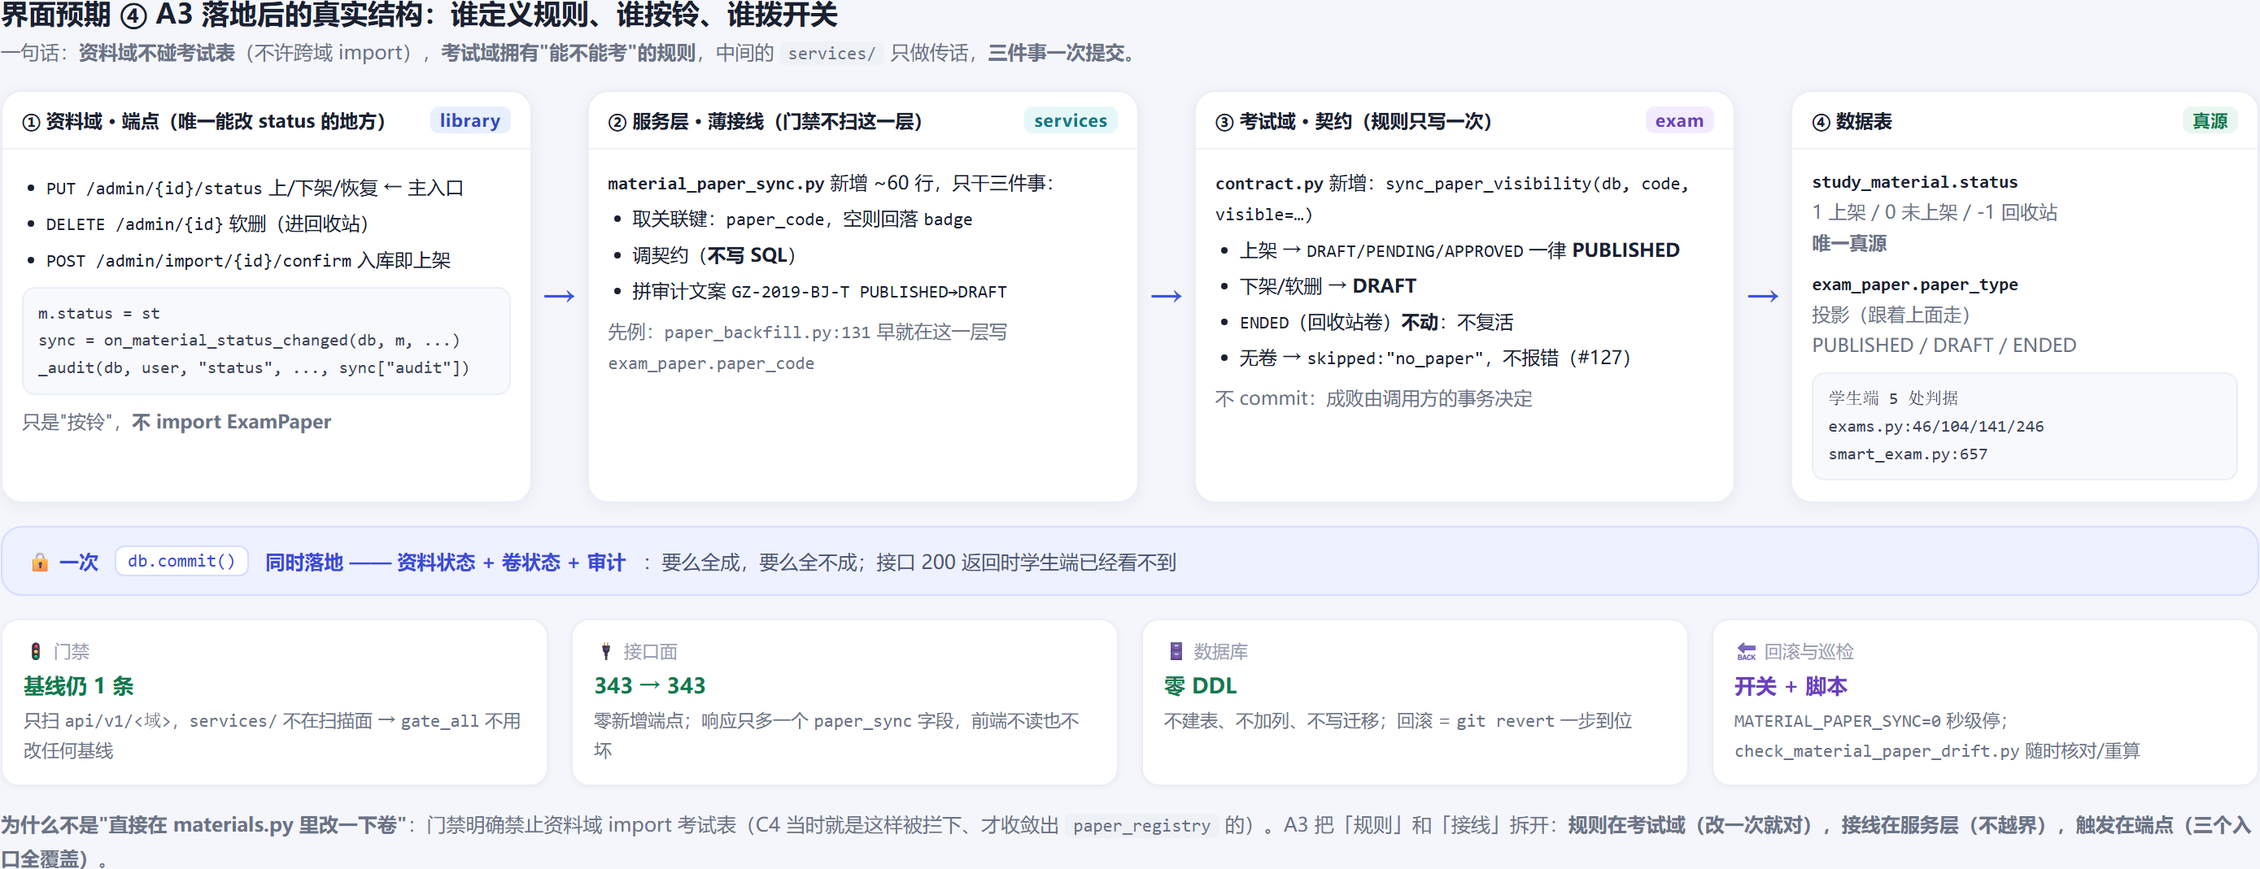
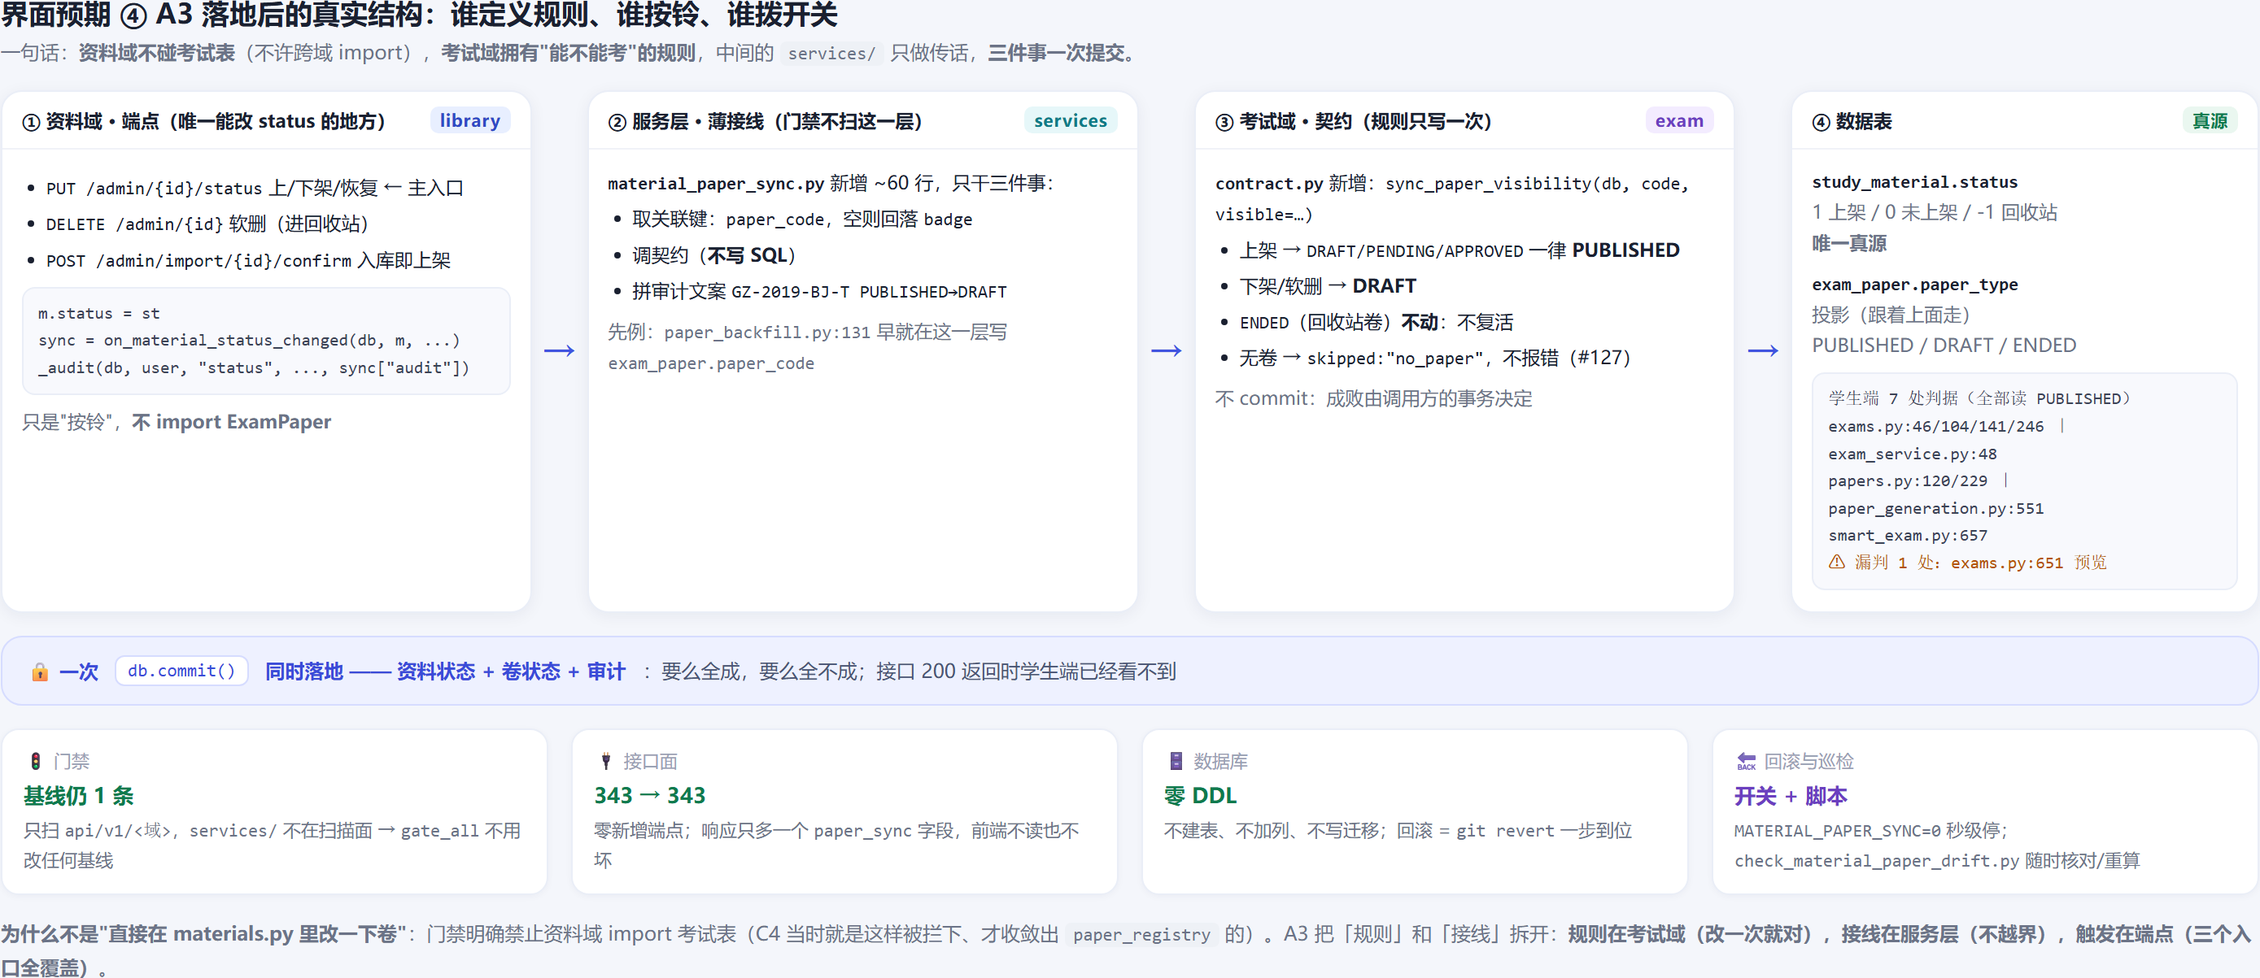
docs: 试卷上传→学生开考现状链路实测 + 订正 P5 判据点数量并记 R8 预览漏判
- 新增《试卷上传到学生开考_现状链路_v1.md》：上传≠可考，7 步全景 + 3 断点 + 实测证据
- P5 文档：学生侧判据 5 处 → 7 处（补上学生页真实主路径 /api/exams/start、/api/papers/list）
- 新增 R8：GET /api/exams/preview/{id} 不过滤 paper_type（实测 ENDED 卷返回 200）+ D8 处置选项 + T13
- 重绘 04 图（判据点数量与漏判标注）；README 索引两行同步

diff --git a/docs/README.md b/docs/README.md
@@ -908,7 +908,8 @@ docker compose cp backend:/app/data/backups/<备份文件>.db .\backup_from_dock
 | `plans/B1_人工验收清单_v1.md` | v1 | 📋 验收指引（2026-11-07） | B1 的 5 分钟验收剧本：0 节说明"只有 ID 121 带原件"（其余 112 条是 B1 前的数据，源文件已清）；1 节三步快速版（`?type=lecture` → 预览 → 底部「原件（1）」→ 下载 35 KB docx）；2 节完整性 5 项（文件大小/磁盘哈希/其它类型不受影响/统计不变/软删后管理员仍可下）；3 节列出 4 项"看不到是正常"；4 节给 PowerShell 核对命令（`Test-Path`/`Length`/`Get-FileHash`/`git check-ignore`）；5 节可选"从零跑一遍真实导入"；6 节回执格式 |
 | `plans/B2_批量上传与双格式配对_交付记录_v1.md` | v1 | ✅ 已完成（2026-11-07，B 批第 3 项 / B 批收尾） | 一次最多 50 文件、合计 ≤2GB；**同名 docx+pdf 合并一条**（docx 主文件 / pdf 附件）；逐条队列带进度、重复跳过、失败原因。**检查点**：①端点一次一个文件（`material_id` 区分建资料/挂附件）；②同 `sha256` 返回 `duplicate=true` 不建行；③扩展名+magic+20MB；④编排纯函数（16 例）+ 组件（5 例）；⑤完成后自动刷新统计。**实测**：对话框 `将创建 1 条资料（含 1 组双格式）` → 队列上传中 → ID 122、两行原件、附件 70B 可下载、重复上传 total 仍 114。**跑门禁须带 `OPENAPI_URL`（8000 被 Docker 容器占用，否则 L4 假红 7 个端点）** |
 | `plans/B2_批量导入测试数据_清单_v1.md` | v1 | 📋 测试数据（2026-11-07） | `assets/测试上传数据/B2批量导入/` 下 **16 个文件**：①`01_正常用例/` 4 组同名 docx+pdf（2 套题本 + 2 章讲义）+ 3 单文件，分 3 批导 → 创建 **7 条**（114→121，试卷 3、文章·讲义 3/6）；②`02_重复用例/04_讲义_正常.docx` 与 121 字节相同 → 标「重复」不新增；③`03_同名冲突/A|B/同名资料.docx` 同名不同内容 → 两条独立资料；④`04_异常用例/` txt 前端拦、假 docx 后端 400。含三套剧本、统计对账表、5 条"别把正常当异常"、清理办法。所有 docx/pdfs 已校验可正常打开（假 docx 除外，故意损坏） |
-| `plans/P5_上下架联动_方案对比_v1.md` | v1 | 📋 **待你拍板 D1–D7**（未改代码） | 回答「P5 上下架联动 `exam_paper.paper_type` 怎么做」，给 **6 套方案**对比（含影响面/回滚/测试点）：**A3 契约+服务层接线（推荐）**：考试域新增 `exam/contract.py` 拥有可作答性状态机 + `services/material_paper_sync.py` 薄接线 + `materials.py` 3 处调用（status / 软删 / 入库即上架），同事务强一致、**门禁基线仍 1 条、API 面仍 343、零 DDL**、0.75 人日；A1 服务层直写 0.5d（职责混）；A2 契约+基线登记 1.0d（**基线 1→2 需你批准**，换"跨域在扫描里可见"）；B 事件驱动 2.0d（最终一致 + 双路径，建议留给事件总线阶段）；C 改学生侧判据（**否决**，与 §2.3 冲突且 5 处重复判据）；D 只巡检（不达验收，降为回滚资产）。**实测事实**：学生侧 5 处 `PUBLISHED` 判据（`exams.py:46/104/141/246` + `smart_exam.py:657`）、能写 PUBLISHED 的 4 扇门、状态真源 `study_material.status`（-1:5 / 0:14 / 1:105）、3 套试卷资料 #125/#126 有卷·#127 `GZ-2024-GK-T` 无卷；门禁只扫 `api/v1` 且 `--check-only` 不自动写基线，`catalog/contract.py` 是先例，`paper_backfill.py:131` 已开"services 写 exam_paper"先例。**语义待定 D-P5-1~6**：PENDING/APPROVED 上架即 PUBLISHED、ENDED 不复活、软删联动、入库即上架联动、无卷 no-op。**回滚三层**：`MATERIAL_PAPER_SYNC` 开关 / `git revert`（无 DDL）/ `sqlite3.backup()` 快照 + 审计 detail + 漂移重算脚本。**风险 R1 反向漂移仍在**（教师端 4 处发布入口），需 P0–P4 根除。**§0.5 通俗版**（打比方 + 六条优势 + 分角色预期效果）+ **4 张界面预期图** `assets/P5联动预期/`（管理端下架前后对照 / 可作答卷三态 / 学生端下架即消失 / A3 责任边界数据流） |
+| `plans/试卷上传到学生开考_现状链路_v1.md` | v1 | ✅ 现状实测说明（2026-11-08，只读探针，未改代码） | 回答「现在上传试卷后，学生端考试的机制是什么样的」。**结论：上传 ≠ 可考** —— 上传只落 `study_material(status=0)` + `material_file(primary)` + `paper_code`（C2a 解析），`materials.py` 全文对 `ExamPaper` **只有只读桥**，**零建卷能力**。学生端入场券 = `exam_paper.paper_type='PUBLISHED'`。**7 步全景**：上传 → 上架（只改 status）→ 另建卷（6 条链路/8 处 `ExamPaper(`）→ 配题（`paper_question_relation`，空则 404「该试卷暂无题目」）→ 学生列表（主路径 `GET /api/papers/list`，`role_level<2` 仅 PUBLISHED）→ 开考（主路径 `POST /api/exams/start` → `ExamService.start_exam:46`）→ 进度/交卷/成绩（历史成绩不按 `paper_type` 过滤，下架不丢分）。**3 个断点**：A 上传→卷无自动通道（#127 实证）、B 上架→可考不联动（P5）、C 卷→资料仅反方向可用（补录）。**新发现 R8**：`GET /api/exams/preview/{id}`（`exams.py:651`→`exam_service.py:464`）**漏判 `paper_type`**，学生 token 请求 `ENDED` 的 #1 实测 **200**（对照 `papers.py:229` 同功能接口有守卫）→ 草稿卷配题后题干/选项可被学生直读（不含答案解析）。**实测证据**：学生 `/api/papers/list` 与 `/api/exams/list` 同返回 2 条（#2/#3），`#127 GZ-2024-GK-T` 不在其中；`/api/exams/1`、`/1/questions`=404、`/start`=400。探针 `_run/p5_exam_probe*.py` |
+| `plans/P5_上下架联动_方案对比_v1.md` | v1 | 📋 **待你拍板 D1–D8**（未改代码） | 回答「P5 上下架联动 `exam_paper.paper_type` 怎么做」，给 **6 套方案**对比（含影响面/回滚/测试点）：**A3 契约+服务层接线（推荐）**：考试域新增 `exam/contract.py` 拥有可作答性状态机 + `services/material_paper_sync.py` 薄接线 + `materials.py` 3 处调用（status / 软删 / 入库即上架），同事务强一致、**门禁基线仍 1 条、API 面仍 343、零 DDL**、0.75 人日；A1 服务层直写 0.5d（职责混）；A2 契约+基线登记 1.0d（**基线 1→2 需你批准**，换"跨域在扫描里可见"）；B 事件驱动 2.0d（最终一致 + 双路径，建议留给事件总线阶段）；C 改学生侧判据（**否决**，与 §2.3 冲突且 5 处重复判据）；D 只巡检（不达验收，降为回滚资产）。**实测事实**：学生侧 **7 处** `PUBLISHED` 判据（`exams.py:46/104/141/246` + 主路径 `exam_service.py:48` `/api/exams/start` + `paper_generation.py:551` `/api/papers/list` + `papers.py:120/229` + `smart_exam.py:657`；另有 1 处漏判 `exams.py:651` 预览，见 R8/D8）、能写 PUBLISHED 的 4 扇门、状态真源 `study_material.status`（-1:5 / 0:14 / 1:105）、3 套试卷资料 #125/#126 有卷·#127 `GZ-2024-GK-T` 无卷；门禁只扫 `api/v1` 且 `--check-only` 不自动写基线，`catalog/contract.py` 是先例，`paper_backfill.py:131` 已开"services 写 exam_paper"先例。**语义待定 D-P5-1~6**：PENDING/APPROVED 上架即 PUBLISHED、ENDED 不复活、软删联动、入库即上架联动、无卷 no-op。**回滚三层**：`MATERIAL_PAPER_SYNC` 开关 / `git revert`（无 DDL）/ `sqlite3.backup()` 快照 + 审计 detail + 漂移重算脚本。**风险 R1 反向漂移仍在**（教师端 4 处发布入口），需 P0–P4 根除；**R8 预览漏判**实物证据（ENDED 卷预览 200）与 **D8** 处置选项。**§0.5 通俗版**（打比方 + 六条优势 + 分角色预期效果）+ **4 张界面预期图** `assets/P5联动预期/`（管理端下架前后对照 / 可作答卷三态 / 学生端下架即消失 / A3 责任边界数据流） |
 | `plans/C3_试卷筛选_交付记录_v1.md` | v1 | ✅ 已完成（2026-11-08，C 批第 4 段） | 「类型=试卷」时出现**年份/地区/卷别**三个下拉 + 深链。**检查点**：①后端 `paper_year`(1900–2100)/`region`(代码或中文)/`book_kind`(T,A,J)；②订正优先于解析；③带试卷筛选排除非试卷；④组合筛选与 status 共存；⑤筛选后分页正确；⑥不带筛选时行为不变；⑦行回传 paper_year/region/book_kind。**实测** 2019→125、2017→126、BJ→125、江苏→126、2019+BJ→1、2020→0。pytest 11 新增/74 回归、vitest 619、gate 9/10 |
 | `plans/C1_讲义大纲与删原件_交付记录_v1.md` | v1 | ✅ 已完成（2026-11-08，C 批第 3 段） | 讲义能看规模与目录，原件能单独删。**检查点**：①docx 大纲抽取（Heading 优先 / 编号兜底 / 无标题只给字数 / 坏文件不炸）17 例；②`doc_meta` 列 + 启动期自动补列 + 回填脚本（5 条已回填）；③上传与导入落档后自动抽；④列表 `chapter_count/word_count`、预览 `chapters`+`doc`；⑤抽屉两级目录 + 字数；⑥删原件端点（内容寻址：有他资料引用则保留物理文件）+ 二次确认 UI。**实测** 121=3 章 120 字、删临时 pdf 后磁盘文件消失、剩余原件 0。pytest 17 新增/138 回归、vitest 610、gate 9/10 |
 | `plans/C批验收反馈修复记录_v1.md` | v1 | ✅ 已完成（2026-11-08） | 验收反馈的 2 个缺陷：①**C2a 未接到上传路径**（编号只在补录/改信息时生成）→ 上传建资料时按文件名解析并写 `paper_code`/`badge`，127 补成 `GZ-2024-GK-T`；②**错误文案被吞**（`apiClient` rejection 是普通对象，非 Error）→ 新增 `errorMessage()` 并替换 9 处，真机确认显示「year 需在 1990–2100 之间，收到 1800」。含数据现状（125 挂了验收用的模拟卷 PDF、可清理清单）。pytest 121、vitest 605、gate 9/10 |

diff --git a/docs/plans/试卷上传到学生开考_现状链路_v1.md b/docs/plans/试卷上传到学生开考_现状链路_v1.md
@@ -1,0 +1,146 @@
+# 试卷从「上传」到「学生开考」——现状链路实测（v1）
+
+> **状态**：📋 现状说明（只读实测，**未改任何代码/数据**）
+> **分支**：`feat/material-multi-format-import` ｜ 实测后端：`http://127.0.0.1:8001`（`revision e425451`）
+> **实测时间**：2026-11-08 ｜ 探针脚本：`_run/p5_exam_probe.py`、`_run/p5_exam_probe2.py`（只发 GET/POST 读请求）
+> **一句话结论**：**上传试卷 ≠ 学生能考**。上传只往「资料库」落一条资料 + 原件 + 编号，**不建可作答卷**；学生端考试的入场券是 `exam_paper.paper_type='PUBLISHED'`，而它与 `study_material.status` **目前没有任何联动**。
+
+---
+
+## 1. 一句话结论的证据（4 条实测）
+
+| # | 证据 | 说明 |
+|---|---|---|
+| 1 | `backend/app/api/v1/library/materials.py` 全文对 `ExamPaper` **只有一处注释级 import**（L805 的 `paper_registry` 只读桥） | 资料库的代码**根本没有建卷能力** |
+| 2 | `#127`「2024国考·公专题本」已是 `status=1`、`paper_code=GZ-2024-GK-T`，但学生 `GET /api/papers/list` 只拿到 **2 条**（#3 江苏、#2 北京），**没有 2024 卷** | 上传的资料**不会**出现在学生考试列表里 |
+| 3 | 学生端「历年试卷」真实调用链是 `student_papers.vue` → `papersStore.load()` → **`GET /api/papers/list`**（`paper_generation.py:525`）；`role_level<2` 只返回 `PUBLISHED` | 学生看到的卷**只来自 `exam_paper`** |
+| 4 | 学生 `POST /api/exams/start?paper_id=1`（#1 是 `ENDED`）→ **400「试卷不存在或未发布」**；`GET /api/exams/1` → 404；`GET /api/exams/1/questions` → 404 | 三道门都按 `PUBLISHED` 拦 |
+
+---
+
+## 2. 现状机制全景（分 7 步，标出「谁在起作用」）
+
+```
+管理端上传试卷 ──▶ 资料库(study_material + material_file)  ← 学生端完全不读这里
+                        │
+                        └─ paper_code（如 GZ-2024-GK-T）
+                                  ↕ 仅"编号相等"，没有外键、没有联动
+题库里另建一张卷 ──▶ exam_paper(DRAFT) ──发布/审批──▶ PUBLISHED ──▶ 学生端列表/开考
+                        └─ paper_question_relation（题、顺序、分值）
+```
+
+### 步骤 1：上传（管理端）
+
+- 端点：`POST /api/materials/admin/files/upload`（`materials.py:1887` 起）
+- 落库：`study_material(type='paper', status=0)` + `material_file(role='primary')`
+- 顺带：C2a 从文件名解析编号 → 写 `badge` / `paper_code`（例：`GZ-2024-GK-T`）；讲义才抽 `doc_meta` 大纲
+- **不落**：`exam_paper`、`paper_question_relation`、`question_bank`
+- 结论：**这一步结束，学生端毫无变化**
+
+### 步骤 2：上架（管理端，=审批通过）
+
+- 端点：`PUT /api/materials/admin/{id}/status {status:1}`（`materials.py:2035`）
+- 落库：`study_material.status = 1`
+- **不落**：`exam_paper.paper_type`（**这就是 P5 缺口**）
+- 结论：**上架只影响「资料库可见性」，不影响「能不能考」**
+
+### 步骤 3：要变成"可考卷"，必须另有一条 `exam_paper`（6 条建卷链路，8 处 `ExamPaper(`）
+
+| 链路 | 位置 | 建出来是什么态 | 谁能发布 |
+|---|---|---|---|
+| 教师端建卷 | `platform/teacher.py:776`、`:1243` | `DRAFT` | 教师直接发布（`teacher.py:1383`，仅 `past_paper`） |
+| 管理员建卷 | `catalog/papers.py:88` | `DRAFT` | 提交审批 → `PENDING` → `admin_approval.py:245` 审批通过 = `PUBLISHED`；或 `papers.py:402` `APPROVED` → `papers.py:442` 发布 |
+| AI 组卷 | `catalog/paper_generation.py:186`、`:354`、`:464` | `DRAFT` | `paper_generation.py:748` |
+| **题目导入** | `catalog/question_import.py:3680` | `DRAFT`（题量 ≥5 自动建；同名复用；`ENDED` 复活为 `DRAFT`） | 仍需走上面的发布路径 |
+| 标签组卷 | `catalog/tags.py:227` | `DRAFT` | 同上 |
+| 小智私卷 | `exam/smart_exam.py:320` | 私有 `DRAFT`（学生看不到别人的） | 不发布 |
+
+> **关键**：**没有一条链路是"从资料生成卷"**。唯一的桥是反方向的补录 `POST /api/materials/admin/papers/backfill`（`services/paper_backfill.py`）——它把**已发布的卷**补录成资料，并**故意置 `status=1`**，避免"学生能考但资料显示未上架"的矛盾。
+
+### 步骤 4：卷还得真的有题
+
+- `paper_question_relation`（`paper_id` + `question_id` + `question_order` + `question_score`）
+- `GET /api/exams/{id}/questions`：关联为空 → **404「该试卷暂无题目」**（`exams.py:152-153`）
+- 列表上的 `question_count` 是卷表上的冗余字段，**不一定等于真实关联题数**（建卷后再加/删题会不同步）
+
+### 步骤 5：学生端列表（两条接口，主路径是 `/api/papers/list`）
+
+| 接口 | 位置 | 学生可见条件 |
+|---|---|---|
+| **`GET /api/papers/list`**（`student_papers.vue` 在用） | `paper_generation.py:525` | `role_level<2` → 仅 `PUBLISHED`；教师看自己的 + 已发布；管理员全量 |
+| `GET /api/exams/list`（旧接口，移动端/其它页可能用） | `exams.py:32` | 恒 `PUBLISHED` |
+
+### 步骤 6：学生开考（两条开考接口，主路径是 `POST /api/exams/start`）
+
+| 接口 | 位置 | 过滤 | 行为 |
+|---|---|---|---|
+| **`POST /api/exams/start?paper_id=&exam_type=SELF_TEST`**（学生页在用） | `exams.py:595` → `ExamService.start_exam`（`exam_service.py:46`） | `PUBLISHED` | 有未完成记录 → **续考**；否则建 `exam_record`（`exam_type='SELF_TEST'`）并返回题目（**不含答案**） |
+| `POST /api/exams/{paper_id}/start` | `exams.py:230` | `PUBLISHED` | 同上（老版本，另有 `max_attempts` 次数校验） |
+
+### 步骤 7：答题 → 交卷 → 成绩
+
+```
+开始考试(返回题目,不含答案) → /paper-answer 答题
+   → PUT /api/exams/{exam_id}/progress   存进度（断点续答）
+   → POST /api/exams/{exam_id}/submit    自动评分（客观题自动、主观题待批改）
+   → GET  /api/exams/records             我的记录 / 成绩
+   → 完成事件（成就·金币判据之一）
+```
+
+- 提交接口还有老版本 `POST /api/exams/{record_id}/submit`（`exams.py:302`），两套并存
+- 历史记录、成绩、错题**不按 `paper_type` 过滤** → 卷下架**不影响**已有成绩（实测确认）
+
+---
+
+## 3. 三个断点（"上传了为什么学生看不到"的准确答案）
+
+| # | 断点 | 表现 | 归属 |
+|---|---|---|---|
+| **A** | **上传 → 卷**：没有任何自动通道 | 上传 #127 后学生端永远看不到（实测 `/api/papers/list` total=2） | P2 题目线（题目导入自动建卷）/ 教师建卷 |
+| **B** | **上架 → 可考**：不联动 `paper_type` | 下架 #125，学生照样能考 #2（因为它还是 `PUBLISHED`） | **P5**（本文档同目录的《P5_上下架联动_方案对比_v1.md》） |
+| **C** | **卷 → 资料**：只有反方向可用 | 3 条试卷资料 = 2 条补录（#125/#126）+ 1 条上传（#127，无卷） | 已结（C4 补录） |
+
+---
+
+## 4. 顺带发现的一个真缺陷（已实测）
+
+**`GET /api/exams/preview/{paper_id}` 漏判 `paper_type`**
+
+- 路由：`exams.py:651` → `ExamService.get_exam_preview`（`exam_service.py:460-464`）
+- 代码：`paper = db.query(ExamPaper).filter(ExamPaper.paper_id == paper_id).first()` —— **没有 `paper_type` 条件**
+- 实测（学生 token）：
+  - `GET /api/exams/preview/1`（#1 = `ENDED` 回收站）→ **HTTP 200**，`{"paper_name":"1"}`，`questions=0`（这张卷恰好没题）
+  - `GET /api/exams/preview/2`（`PUBLISHED`）→ 200，`questions=100`，字段含 `question_content`/`options`，**不含** `answer`/`answer_analysis`
+- 风险：任何「草稿/回收站**但已配题**」的卷，学生可直接读到**题干与选项**（不泄露答案与解析，但仍属未发布内容外泄）
+- 对照：另一个同名预览口 `GET /api/papers/{id}/preview`（`catalog/papers.py:229`）**是有守卫的**（`role_level<2` 且非 `PUBLISHED` → 404）
+- 建议：二选一 —— ①并入 P5（+0.1d，同步加 T13 测试）；②单开小补丁立刻堵。**等你点头**
+
+---
+
+## 5. 现状数据快照（可复核）
+
+| 项 | 值 |
+|---|---|
+| `exam_paper` | 3 行：#1 `P-20261026-D65ED5` **ENDED**（0 题）、#2 `GZ-2019-BJ-T` **PUBLISHED**（100 题/100 分/120 分钟）、#3 `GZ-2017-JS-T` **PUBLISHED**（100 题） |
+| 学生端可见卷 | **2 套**（#2、#3）—— `GET /api/papers/list` 与 `GET /api/exams/list` 实测同为 2 |
+| 试卷类资料 | 3 条，全 `status=1`：#125↔#2、#126↔#3、**#127 无对应卷** |
+| 资料状态分布 | `-1` 5 条 / `0` 14 条 / `1` 105 条 |
+
+复核命令：
+
+```powershell
+cd li_an-question_bank\backend
+python -c "import sqlite3;c=sqlite3.connect(r'data/question_bank.db');print(list(c.execute('select paper_id,paper_code,paper_type,question_count from exam_paper')))"
+python _run\p5_exam_probe.py   # 在仓库根执行；结果写 _run/p5_exam_probe.log
+```
+
+---
+
+## 6. 与其它方案的衔接
+
+| 关系 | 说明 |
+|---|---|
+| **P5 上下架联动** | 补断点 B；同步后「资料是否上架」才真正等于「学生能不能考」 |
+| **P2 题目/试卷元数据线** | 补断点 A 的自动化部分：题目导入自动建卷（已有 `question_import.py:3680`）+ `paper_code` 关联 |
+| 《试卷管理收敛》P0–P4 | 收敛到「资料管理单一入口」，把 6 条建卷链路砍成 1 条；那时「上传 → 卷」才会变成一条直线 |
+| R8（预览漏判） | 独立小缺陷，与 P5 正交；建议并入 P5 或单开补丁 |
